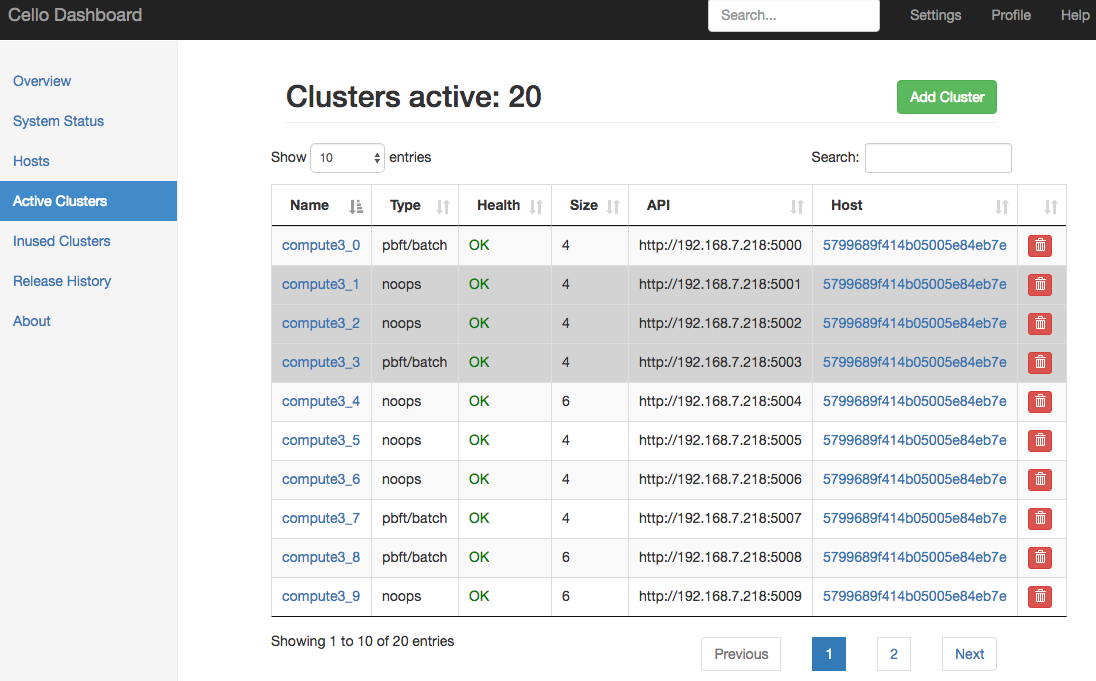
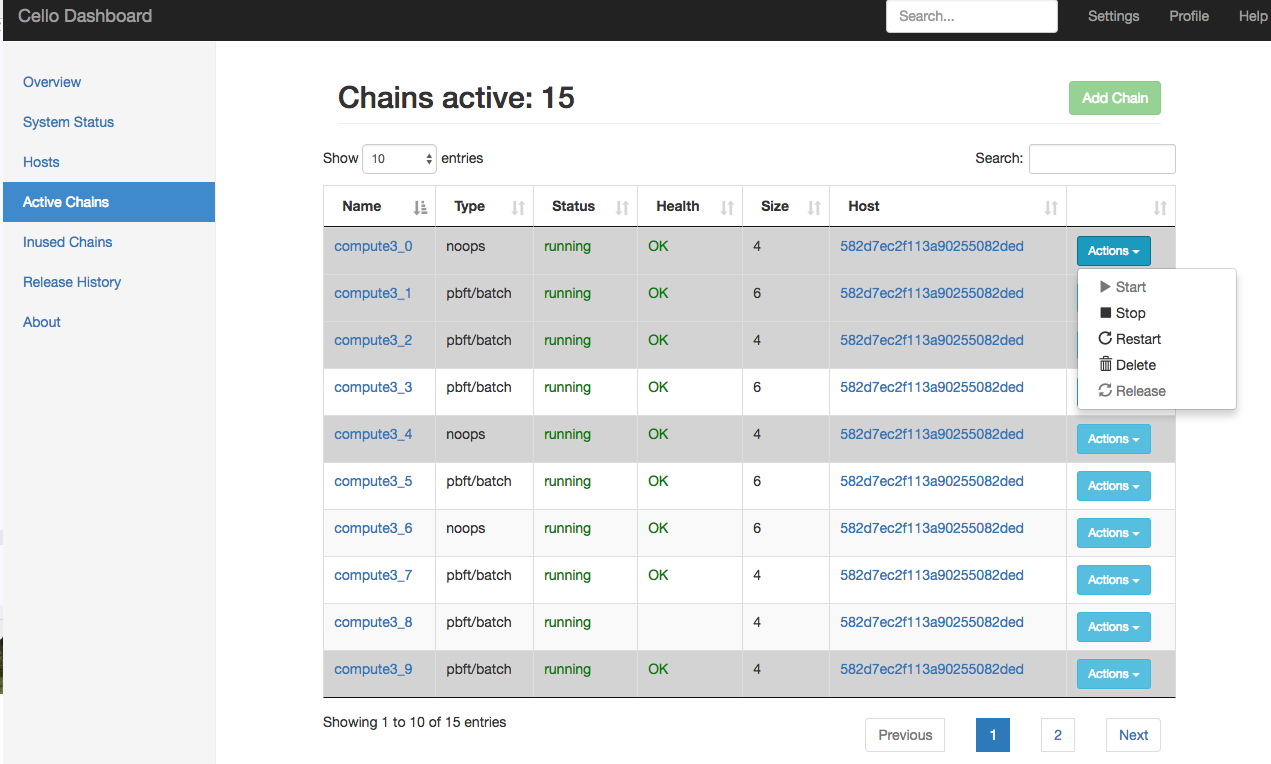
Add more documentation
Add tutorials;
Add terminology;
Rewrite the dashboard operations;
Add more screenshots.

diff --git a/docs/dashboard.md b/docs/dashboard.md
@@ -1,50 +1,81 @@
 # Dashboard
 
-System operators can utilize dashboard service to check system status or change configurations.
+By default, the dashboard will listen on port `8080` at the Master Node.
 
-The dashboard service will listen on port `8080`.
+The left panel gives quick link to various functions, including `overview`, `system status`, `Hosts`, `Active Clusters`, `Inused Clusters`, `Release History` and `About`.
+
+| Name | URL | Function |
+| --- | --- | --- |
+| Overview | `/index` | See a high-level overview on system status |
+| System Status | `/stat` | See statistics on the system |
+| Hosts | `/hosts` | Operate on the hosts managed by the system |
+| Active Clusters | `/clusters?type=active` | Operate on existing running chains in the pool |
+| Inused Clusters | `/clusters?type=inused` | Operate on user occupied chains in the system |
+| Released History  | `/clusters?type=released` | See cluster releasing history data |
+
 
 ## Overview
 
-URL: `/index`.
+![Dashboard Overview](imgs/dashboard_overview.png)
 
-See a high-level overview on system status.
 
-## System Status
+The default overview page show the overall status of the system, e.g., how many hosts are deployed within the system, how many clusters are running on those hosts. And there are status numbers for both hosts and clusters.
 
-URL: `/stat`.
 
-See statistics on the system.
+## System Status Page
+
+![dashboard status](imgs/dashboard_status.png)
+
+The system status page shows the host and cluster statistics in terms of types and active/inactive in the system.
 
 ## Hosts
 
-URL: `/hosts`.
+![dashboard hosts](imgs/dashboard_hosts.png)
 
-Operate on the hosts managed by the system.
+In Host page, you can manage all the existing hosts in the pool, and add new hosts. The host shows its `Type` (e.g., SINGLE for Native Docker, or SWARM for Docker Swarm), `Status` (active or not) , `Chains` (How many chains running in the host), `Cap` (Capacity) and `Log Config` (level, receiver). Those non-schedulable host will have a grey line
 
-## Clusters_active
+In the Action dropdown menu, you can
 
-URL: `/clusters?type=active`.
+* Fillup: Fill a host with chains till it's full `capacity`.
+* Clean: Clean all unused chains at the host.
+* Config: Set configurations of the host, e.g., `name` or `capacity`. 
+* Reset: Reset everything on the host, useful when u meet problems of running chains on the host. Notice a host can be `reset` only when there's no inused chains on it.
+* Delete: Remove the host from the pool, then the system will not care about it.
 
-Operate on existing running chains in the pool.
+### Add Host
 
-## Clusters_inused
+You can click the `Add Host` button to add more hosts into the pool.
 
-URL: `/clusters?type=inused`.
+![dashboard add-host](imgs/dashboard_add_host.png)
 
-Operate on user occupied chains in the system.
 
-## Clusters_released
+## Active Chains
 
-URL: `/clusters?type=released`.
+The `Active Chains` page shows all existing running chains in the system, with their Name, Type, Status, Health, Size and Host. Those inused chains will have a grey line.
 
-See cluster releasing history data.
 
-## Screenshots
+![dashboard clusters](imgs/dashboard_clusters.png)
 
-![dashboard-main](imgs/dashboard_main.png)
-![dashboard-status](imgs/dashboard_status.png)
-![dashboard-hosts](imgs/dashboard_hosts.png)
-![dashboard-clusters](imgs/dashboard_clusters.png)
-![dashboard-add-host](imgs/dashboard_add_host.png)
-![dashboard-add-cluster](imgs/dashboard_add_cluster.png)
+In the Action dropdown menu, you can
+
+* Start: Start a chain that is not running.
+* Stop: Stop a running chain to stopped status.
+* Restart: Restart a chain. 
+* Delete: Delete the chain.
+* Release: Release a user-occupuied chain back to the pool, which will be deleted later.
+
+You can click the `Add Chain` button to add more chains into the pool if there are non-full hosts.
+
+![dashboard add-cluster](imgs/dashboard_add_cluster.png)
+
+
+## Inused Chains
+
+Filter out those running chains that are occupied by users.
+
+## Release History
+
+Record all the user releasing chain history.
+
+
+

diff --git a/docs/tutorial.md b/docs/tutorial.md
@@ -1,0 +1,55 @@
+# Tutorial
+
+**Notice: Please have a look at the [terminologies](docs/terminology.md) if you haven't yet.**
+
+After the [installation](docs/install.md), operators can interact with Cello through dashboard.
+
+By default, the dashboard will listen on port `8080` at the Master Node.
+
+## Add a host to the pool
+
+The first time you start Cello, there will be no hosts in the pool. There are two methods to add more hosts into the pool.
+
+* Through the `Overview` page: Click the `+` button after the `Working Host` keyword;
+* Through the `Hosts` page: Click the `Add Host` button at the top right corner.
+
+Then you will see a jumped-out dialog to input the setup info.
+
+![dashboard add host](imgs/tutorial_add_host.png)
+
+Suppose it's a Native Docker server to import as a host, input those fields
+
+* Name: docker_host
+* Daemon URL: `192.168.7.220:2375` (replace this with ur docker host address)
+* Capacity: 5
+
+After successful adding, you can find the `docker_host` shown in the Host page, with 0 chains and Cap is 5.
+
+
+## Create a chain in the pool
+
+Now we have the free host in the pool, new chains can be create.
+
+Open the Active Chain page, it should be empty now, click the `Add Chain` button on the top right corner, input those fields:
+
+* Name: test_chain
+
+And select the host with the `docker_host`.
+
+![dashboard add chain](imgs/tutorial_add_chain.png)
+
+Click the create button to add a new chain with name `test_chain` into the pool.
+
+Then you can see it at the Active Chain page.
+
+## Use auto-mode to provision chains
+
+It will be difficult if you have numbers of chains to create manually. Cello provides automatic ways to save the time.
+
+* Use the host action dropdown menu: The Fillup button will fill the host full with chains till its capacity, while the Clean button will clean all unused chains from the host.
+* Use the Autofill checkbox: In the host configuration, you can find a `Autofill` checkbox, which will automatically  watch the host and keep it's full with chains to the capacity.
+
+Try these methods as you like.
+
+
+If you want to know more advanced operational skills, please continue to the [Dashboard](docs/dashboard.md).

diff --git a/docs/terminology.md b/docs/terminology.md
@@ -1,0 +1,32 @@
+# Terminology
+
+
+## Overview
+* Cluster | Chain: A blockchain with unique access API address, including several peer nodes. May support Hyperledger Fabric, SawthoothLake and Iroha.
+* Host: A resource server, usually it can be a naive Docker host or a Swarm cluster.
+* Master Node: Running the cello platform, to manage the compute nodes.
+* Compute | Worker Node: The servers to have blockchains running inside.
+
+
+
+## Hosts
+
+A host is a worker node, which can be a native Docker Host or a Swarm Cluster currently. Usually a host has several properties:
+
+* Name: Alias name for human read convenience.
+* Daemon URL: The url for Docker/Swarm Access.
+* Capacity: How many chains the host can have at most.
+* Logging Level: The default logging level for the chains at this host.
+* Logging Type: How to handle those logging messages.
+* Schedulable: The chains on this hosts are available to be scheduled to users.
+* Autofill: Always automatically fill the hosts full with chains.
+
+
+##  Chain
+
+A chain is typically a blockchain cluster, e.g., a fabric network, with properties including:
+
+* Name: Alias name for human readiness.
+* Host: Which host the chain locates.
+* Size: How number nodes does the chain have.
+* Consensus: What kind of consensus does the chain adopts, depending on the blockchain technology.

diff --git a/docs/arch.md b/docs/arch.md
@@ -2,11 +2,7 @@
 
 Here we discuss the architecture design for the mangement services on the Master node.
 
-## Terminology
-* Cluster | Chain: A blockchain with unique access API address, including several peer nodes. May support Hyperledger Fabric, SawthoothLake and Iroha.
-* Host: A resource server, usually it can be a naive Docker host or a Swarm cluster.
-* Master Node: Running the cello platform, to manage the compute nodes.
-* Compute | Worker Node: The servers to have blockchains running inside.
+
 
 ## Philosophy and principles
 The architecture will follow the following principles:

diff --git a/README.md b/README.md
@@ -32,8 +32,9 @@ You can also find more [scenarios](docs/scenario.md).
 ## Documentation
 
 ### Operational Docs
-* [Installation & Deployment](docs/deployment.md)
-* [Dashboard](docs/dashboard.md)
+* [Installation & Deployment](docs/install.md)
+* [Terminologies](docs/terminology.md)
+* [Tutorial](docs/tutorial.md)
 * [Scenarios](docs/scenario.md)
 * [Production Configuration](docs/production_config.md)
 
